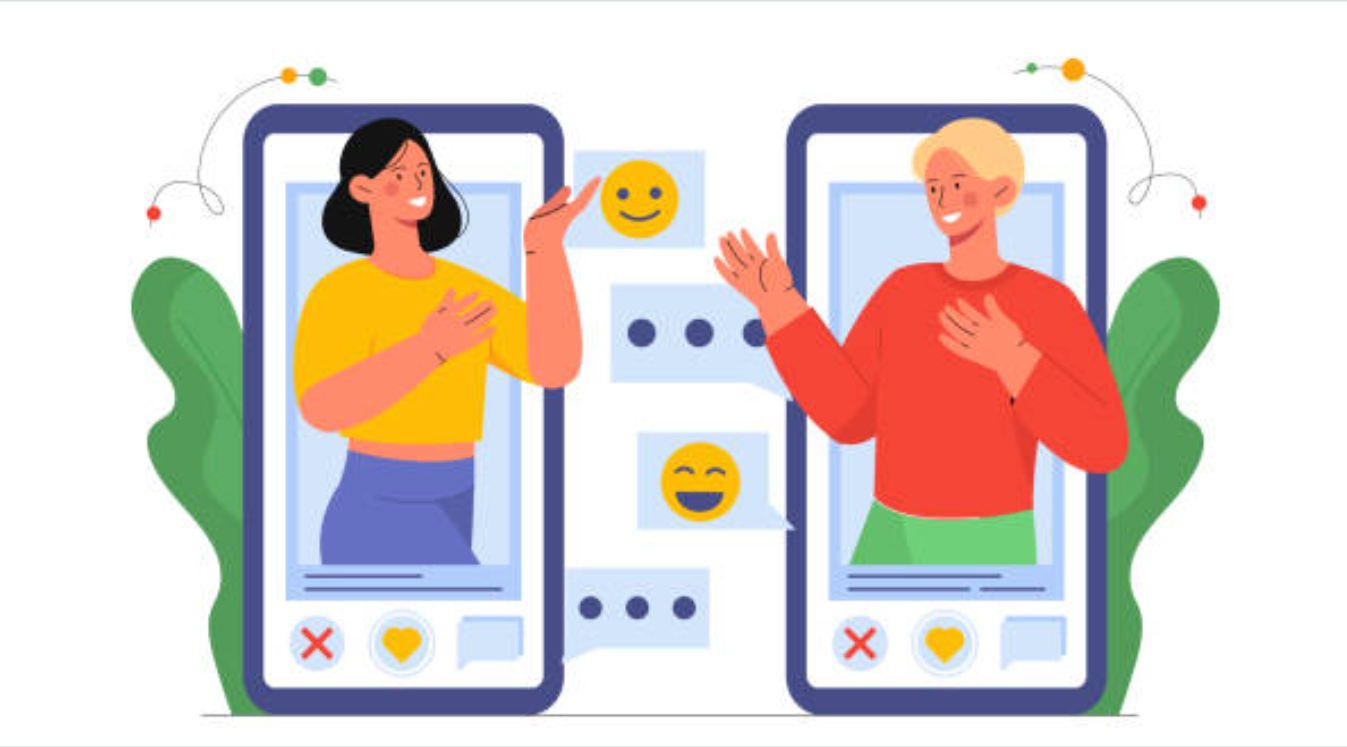
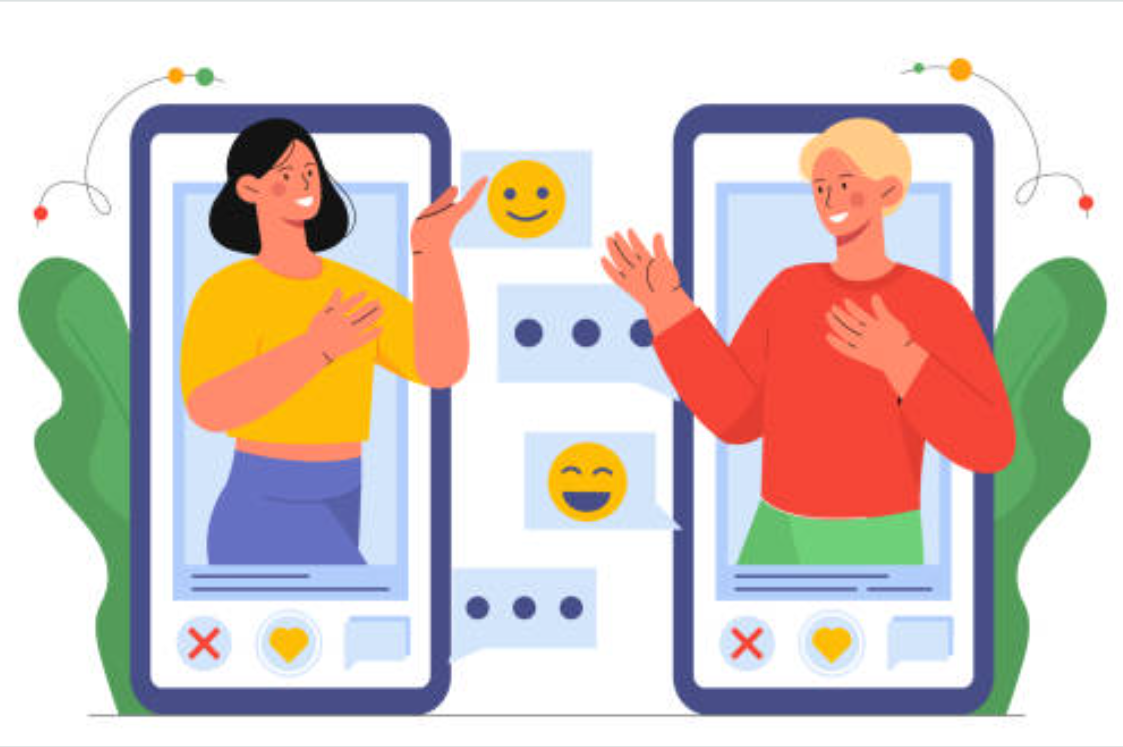
Initial commit

diff --git a/index.html b/index.html
@@ -170,16 +170,16 @@
     </div>
    <div class="transparent-container" id="INC"> 
     <div class="transparent-container">    
-      <a href="https://mhasiemmalik.github.io/VaveLink001/"><img src="images/1on1video.png" id="PIC" ></img>
+      <a href="https://mhasiemmalik.github.io/VaveLink001/"><img src="images/1on1video.png" style="height: 120px;" id="PIC" ></img>
       </a>
-      <p>1 on 1 Video chat Rooms</p>
+      <p>1 on 1 Video Chat Rooms</p>
     </div>
 
     <div class="transparent-container">
       <a href="#" onclick="showConfirmationButtons()">
         <img src="images/Vavelink Msg pic.png" style="height: 120px;" id="PIC">
       </a>
-      <p>1 to many Message Rooms</p>
+      <p>1 to Many Message Rooms</p>
     </div>
   
     <div id="confirmationButtons" style="background-color: #14decad7;">
@@ -190,15 +190,15 @@
     </div>
 
     <div class="transparent-container">
-      <a href="https://mhasiemmalik.github.io/VaveLink-GroupMeets/"><img src="images/Groupchat1.png" style="height: 100px;" id="PIC"></img>
+      <a href="https://mhasiemmalik.github.io/VaveLink-GroupMeets/"><img src="images/Groupchat1.png" style="height: 120px;" id="PIC"></img>
       </a>
         <p>Group Video Meeting Rooms</p>
     </div>
 
     <div class="transparent-container">
-      <a href="https://mhasiemmalik.github.io/Vavelink-VoiceRooms/"><img src="images/Voice Chat msg.png" style="height: 100px;" id="PIC"></img>
+      <a href="https://mhasiemmalik.github.io/Vavelink-VoiceRooms/"><img src="images/Voice Chat msg.png" style="height: 120px;" id="PIC"></img>
       </a>
-        <p>1 to many Voice Chat Rooms</p>
+        <p>1 to Many Voice Chat Rooms</p>
     </div>
     <p id="k1">Note: If you face any problems while connecting over Mobile or PC, just leave 1 of the rooms and rejoin at a time for VideoChat Rooms & also Note that the WEBSOCKET server consumes more Data than SDK Server for message rooms as it is faster. Thank you for Visiting Vavelink</p>
     
